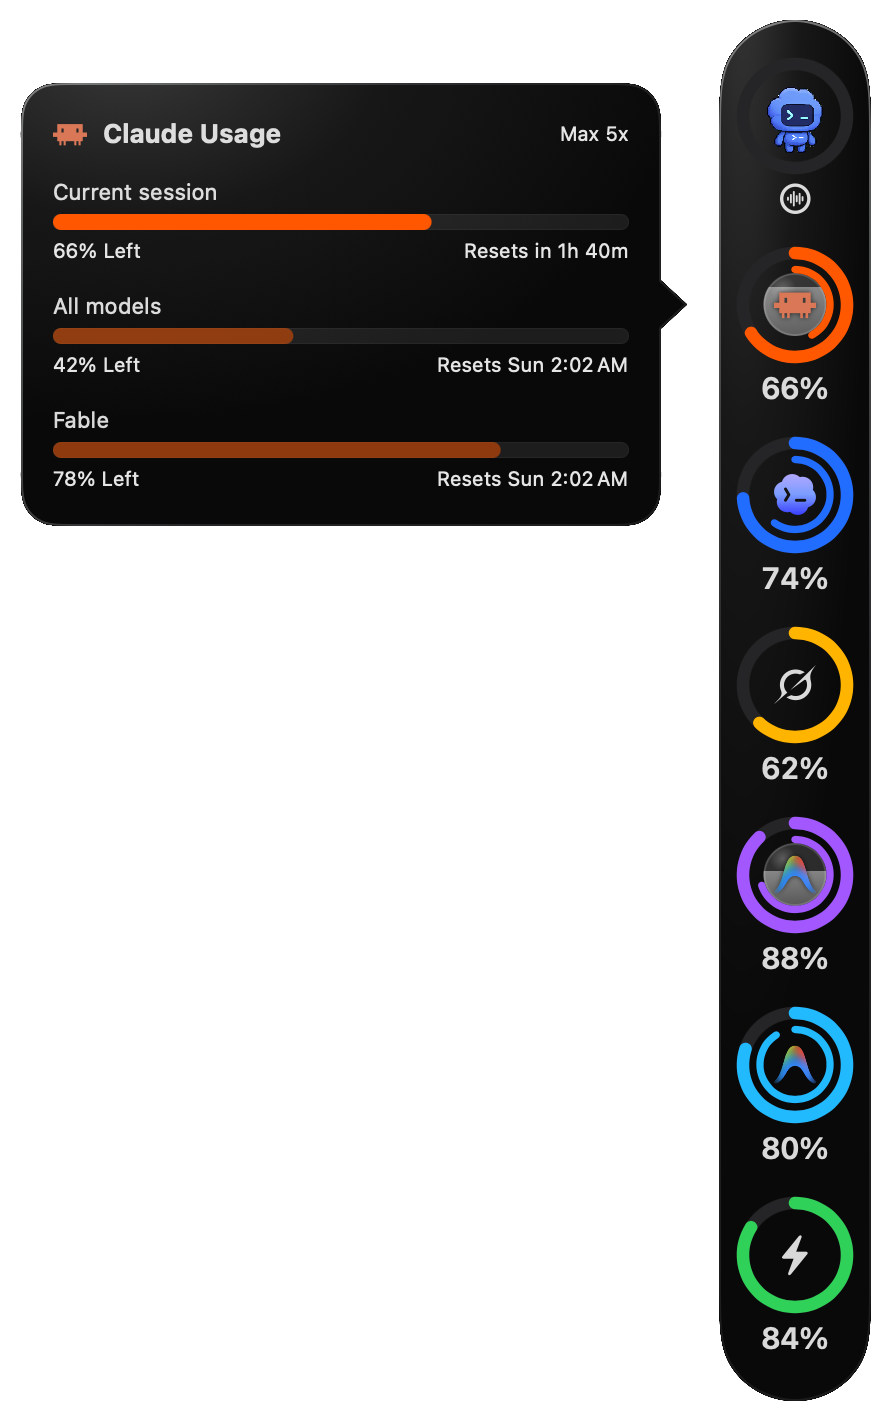
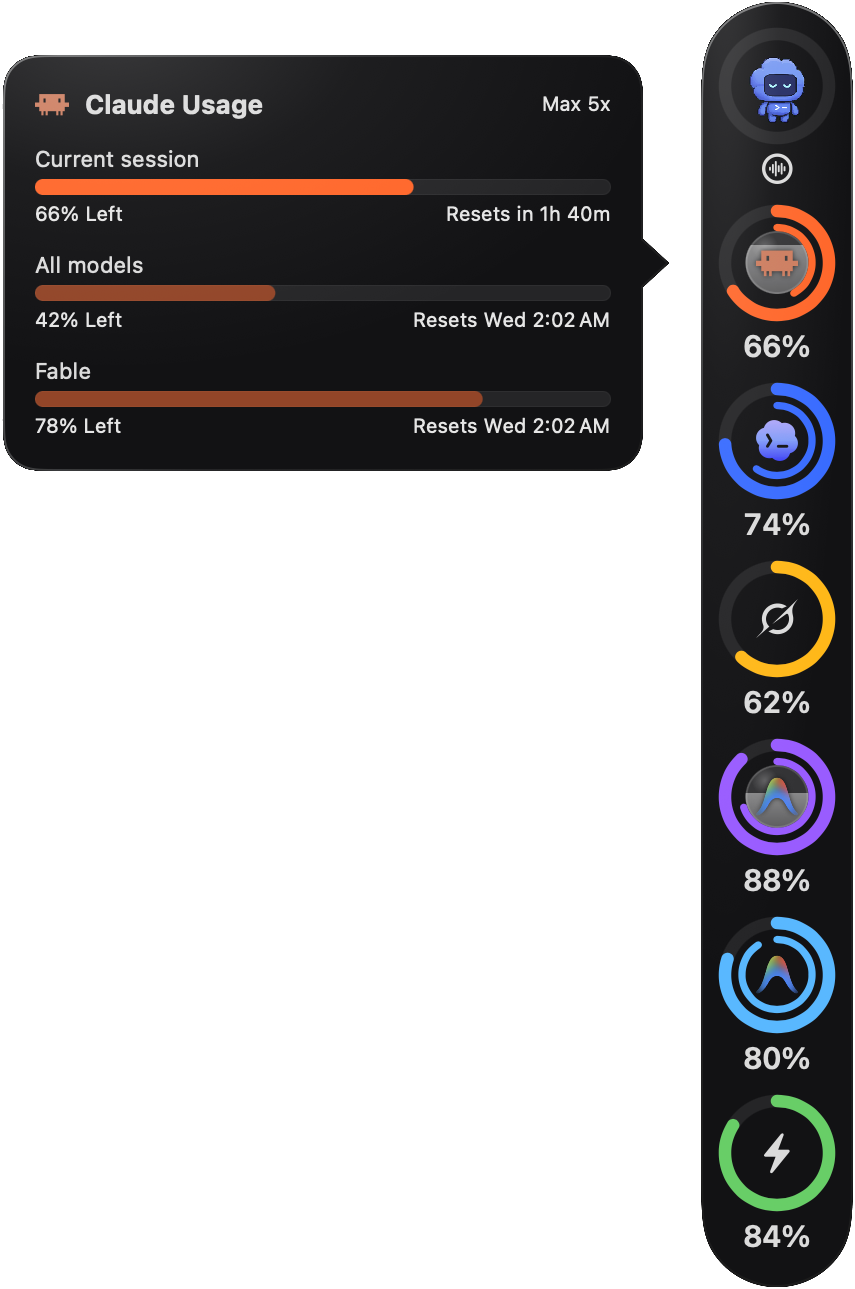
README pictures for 0.4.2: the rail's numbers beside its rings, the tighter side rail, Solid's original colour, and the battery card
Taken on a test Mac with a real pointer from a scratch build with sample numbers. The pet card keeps its picture: that Mac has no Codex to fill in the work model.

Changed region(s): [[0.0, 0.0, 1.0, 1.0]]

diff --git a/README.md b/README.md
@@ -5,7 +5,7 @@ A macOS menu bar app with floating usage rings for Claude, Codex, Grok and Antig
 Everything runs on your own subscription sign-ins. There are no API keys, no accounts with Pulse, and no backend of its own.
 
 <p align="center">
-  <img src="docs/screenshots/usage-card.png" width="445" alt="The rail at the screen edge with sample numbers and Show what's left on: the Codex pet, Claude, Codex, Grok, Antigravity's violet and sky blue rings and the battery, with the Claude card open: current session, all models and Fable, each with what's left and its reset time">
+  <img src="docs/screenshots/usage-card.png" width="428" alt="The rail at the screen edge with sample numbers and Show what's left on: the Codex pet, Claude, Codex, Grok, Antigravity's violet and sky blue rings and the battery, with the Claude card open: current session, all models and Fable, each with what's left and its reset time">
   &nbsp;
   <img src="docs/screenshots/pet-card.png" width="371" alt="The Codex pet card with an empty chat: the work model and effort in the header, a text field, Send and the voice button">
 </p>
@@ -13,9 +13,9 @@ Everything runs on your own subscription sign-ins. There are no API keys, no acc
 Rings show what you've used, or turn on **Settings → Rings → Show what's left** and they empty as you go. The cards follow. Here are the same numbers both ways:
 
 <p align="center">
-  <img src="docs/screenshots/rail-used.png" width="376" alt="Five rings showing what's used: 34%, 26%, 38%, 12% and 20%">
-  &nbsp;
-  <img src="docs/screenshots/rail-left.png" width="376" alt="The same rings showing what's left: 66%, 74%, 62%, 88% and 80%">
+  <img src="docs/screenshots/rail-used.png" width="581" alt="Five rings showing what's used: 34%, 26%, 38%, 12% and 20%">
+  <br>
+  <img src="docs/screenshots/rail-left.png" width="581" alt="The same rings showing what's left: 66%, 74%, 62%, 88% and 80%">
 </p>
 
 ## Requirements
@@ -67,6 +67,10 @@ On a Mac with a battery, the last ring on the rail is the battery: at the bottom
 
 Click it for its card: the charge and whether it's charging, with the time until full or the time left; what the whole Mac is drawing, how much of it goes into the battery and the adapter's wattage; the battery's Maximum Capacity and condition as System Settings shows them; its cycle count; and whether Low Power Mode is on. It reads the numbers when it opens and the power every few seconds while it stays open.
 
+<p align="center">
+  <img src="docs/screenshots/battery-card.png" width="428" alt="The battery card beside the rail, with sample numbers: 84%, charging, full in about 35 min; the Mac is using 9.6 W; charging at 21.3 W from a 70 W adapter; Maximum Capacity 95%, Normal; 234 cycles">
+</p>
+
 When the charge reaches either level, Pulse shows its own alert in the middle of the screen with the percentage and, when macOS has an estimate, the time left. It never uses Notification Center. The alert doesn't take the keyboard, ignores clicks for its first second, and stays until you click **Dismiss** or plug in; plugging in also stops its sound. Each level alerts once per discharge.
 
 **Settings → Battery** sets both levels (20% and 10% by default), a sound for each, and whether it loops until you act. The sounds are macOS's alert sounds, anything in `~/Library/Sounds`, and audio files you add with **Import Sounds…**, which copies them into `~/Library/Application Support/Pulse/Sounds`. If `~/.config/pushover.env` holds `PUSHOVER_USER` and `PUSHOVER_TOKEN` (and optionally `PUSHOVER_DEVICE`) for [Pushover](https://pushover.net), a critical alert is also pushed to your phone; **Send Test Push** checks the setup.
@@ -81,9 +85,9 @@ Turn on **Settings → Breaks → Remind me to take breaks** for regular breaks 
   <img src="docs/screenshots/break-screen.png" width="600" alt="The break screen in violet: Time to take a break, 0:15 left with a violet bar, the idea Mix two teas in a cup and name the blend aloud with Reroll and Surprise me, then Back to Work, Pause and Snooze 5 min; the Codex pet, a small Codex agent and two Claude crabs along the bottom, and Grok and Antigravity floating at the top">
 </p>
 <p align="center">
-  <img src="docs/screenshots/break-countdown.png" width="260" alt="The countdown beside the rail: 28 seconds in an emptying ring and 20-sec break">
+  <img src="docs/screenshots/break-countdown.png" width="242" alt="The countdown beside the rail: 28 seconds in an emptying ring and 20-sec break">
   &nbsp;
-  <img src="docs/screenshots/break-next.png" width="339" alt="The pointer over the rail shows Next: micro in 18 min, and Pause for 30 min, 1 hr or 2 hr">
+  <img src="docs/screenshots/break-next.png" width="321" alt="The pointer over the rail shows Next: micro in 20 min, and Pause for 30 min, 1 hr or 2 hr">
 </p>
 
 Thirty seconds before a break, a small countdown grows out of the middle of the rail: the seconds left in a ring that empties, and the break's length. Click it to start the break now; otherwise the break starts when the ring is empty. With the rings hidden, the countdown appears at the middle of the screen's right edge.
